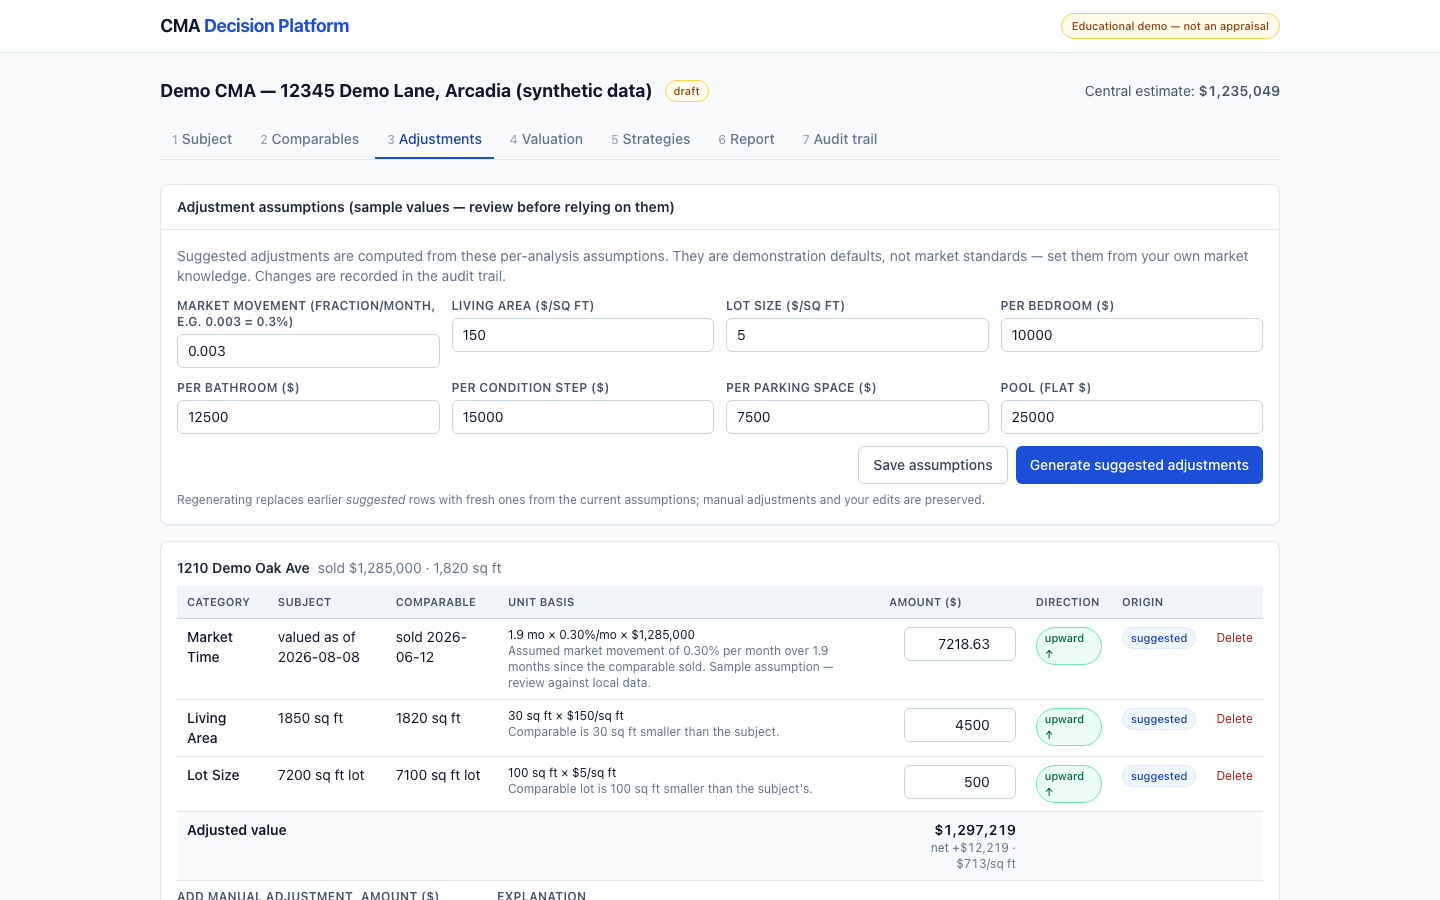
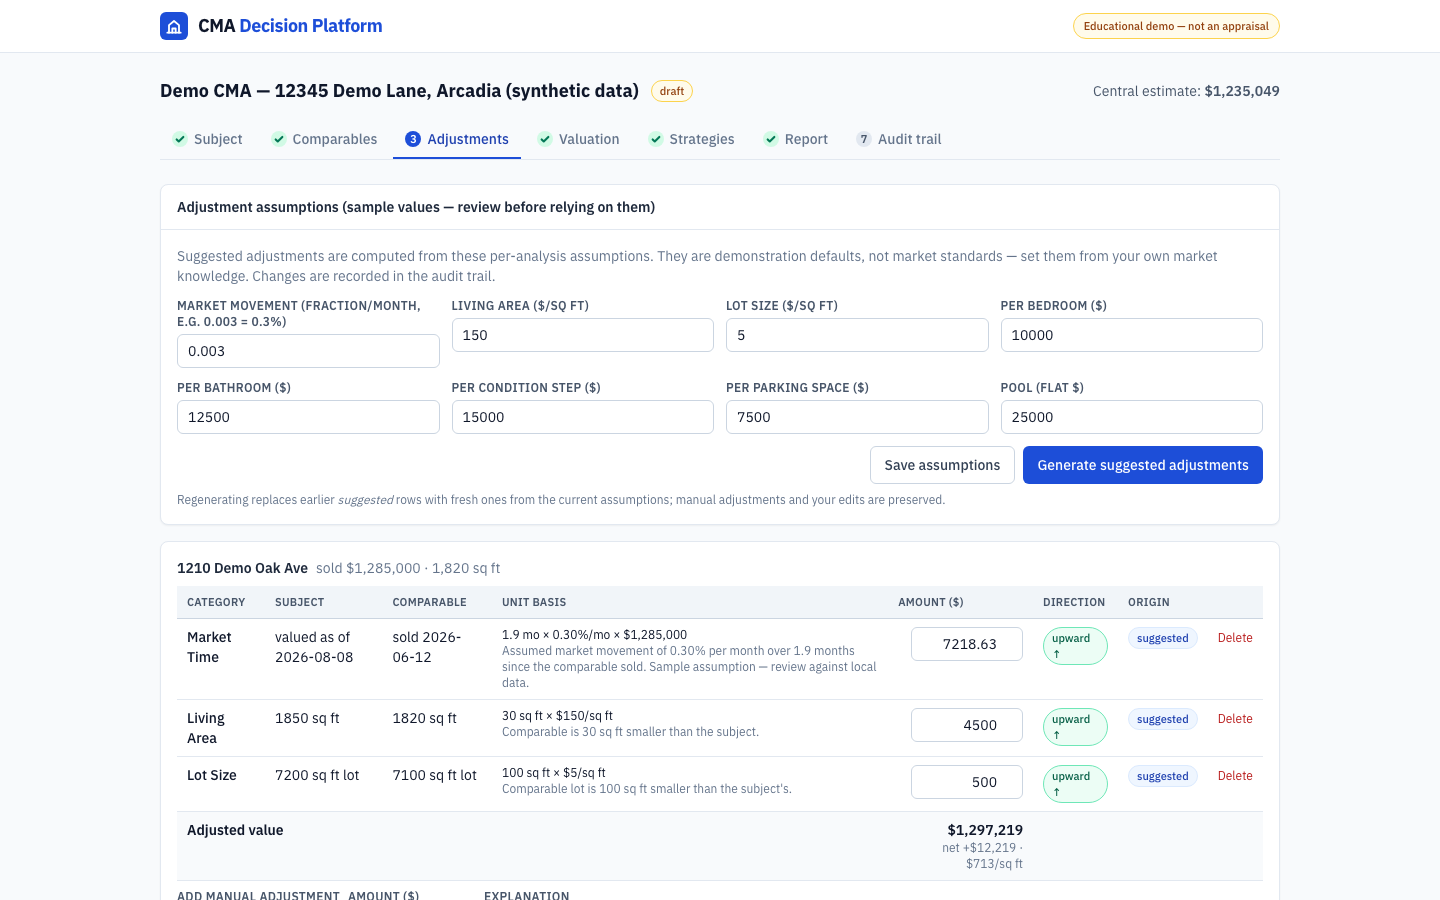
UI polish pass: typography, progress stepper, range panel, a11y fixes
- IBM Plex Sans (self-hosted variable woff2, latin subset) for a
  financial-software feel; offline-safe builds via next/font/local
- Sticky header with SVG brand mark
- Progress-aware stepper: steps show completion from real CMA data
  (backend summary now exposes strategy_count/report_count)
- Dashboard stat row (analyses/drafts/completed/archived)
- Valuation: unified low–central–high range panel with the central
  estimate as the focal point; stacks on mobile (was clipping at 375px)
- Checklist fixes: SVG warning icon replaces glyph, cursor-pointer on
  buttons, prefers-reduced-motion support, small-gray-text contrast
  bumped to slate-500

diff --git a/frontend/src/app/cma/[id]/layout.tsx b/frontend/src/app/cma/[id]/layout.tsx
@@ -20,6 +20,25 @@ const STEPS = [
 
 const STATUS_TONE = { draft: "amber", completed: "green", archived: "slate" } as const;
 
+// A step shows a check once the summary data proves it has produced something.
+// Adjustments completion is ambiguous from the summary, so it stays neutral.
+function isStepDone(slug: string, cma: CMADetail): boolean {
+  switch (slug) {
+    case "subject":
+      return cma.subject != null;
+    case "comparables":
+      return cma.comparable_count > 0;
+    case "valuation":
+      return cma.latest_valuation?.central_estimate != null;
+    case "strategies":
+      return cma.strategy_count > 0;
+    case "report":
+      return cma.report_count > 0;
+    default:
+      return false;
+  }
+}
+
 export default function CmaLayout({ children }: { children: React.ReactNode }) {
   const params = useParams<{ id: string }>();
   const pathname = usePathname();
@@ -67,19 +86,41 @@ export default function CmaLayout({ children }: { children: React.ReactNode }) {
         <ol className="flex min-w-max gap-1 border-b border-slate-200">
           {STEPS.map((step, index) => {
             const active = step.slug === activeStep;
+            const done = isStepDone(step.slug, cma);
             return (
               <li key={step.slug}>
                 <Link
                   href={`/cma/${cmaId}/${step.slug}`}
                   aria-current={active ? "step" : undefined}
-                  className={`inline-block border-b-2 px-3 py-2 text-sm font-medium ${
+                  className={`inline-flex items-center gap-1.5 border-b-2 px-3 py-2 text-sm font-medium transition-colors ${
                     active
                       ? "border-accent-700 text-accent-800"
                       : "border-transparent text-slate-500 hover:border-slate-300 hover:text-slate-800"
                   }`}
                 >
-                  <span className="mr-1 text-xs text-slate-400">{index + 1}</span>
+                  {done && !active ? (
+                    <span
+                      aria-hidden="true"
+                      className="flex h-4 w-4 items-center justify-center rounded-full bg-emerald-100 text-emerald-700"
+                    >
+                      <svg viewBox="0 0 12 12" className="h-2.5 w-2.5" fill="none"
+                        stroke="currentColor" strokeWidth="2.5" strokeLinecap="round"
+                        strokeLinejoin="round">
+                        <path d="M2 6.5L4.5 9 10 3.5" />
+                      </svg>
+                    </span>
+                  ) : (
+                    <span
+                      aria-hidden="true"
+                      className={`flex h-4 w-4 items-center justify-center rounded-full text-xxs font-semibold ${
+                        active ? "bg-accent-700 text-white" : "bg-slate-200 text-slate-600"
+                      }`}
+                    >
+                      {index + 1}
+                    </span>
+                  )}
                   {step.label}
+                  {done && <span className="sr-only">(has data)</span>}
                 </Link>
               </li>
             );

diff --git a/frontend/src/app/cma/[id]/valuation/page.tsx b/frontend/src/app/cma/[id]/valuation/page.tsx
@@ -118,14 +118,38 @@ export default function ValuationPage() {
 
         {valuation && (
           <>
-            <dl className="grid grid-cols-2 gap-3 sm:grid-cols-3 lg:grid-cols-6">
-              <Stat label="Low estimate" value={money(valuation.low_estimate)} />
-              <Stat
-                label="Central estimate"
-                value={money(valuation.central_estimate)}
-                sub={`calc ${valuation.calc_version}`}
-              />
-              <Stat label="High estimate" value={money(valuation.high_estimate)} />
+            <div className="overflow-hidden rounded-lg border-2 border-accent-700">
+              <dl className="grid grid-cols-1 divide-y divide-slate-200 sm:grid-cols-3 sm:divide-x sm:divide-y-0">
+                <div className="bg-white px-4 py-4 text-center">
+                  <dt className="text-xxs font-semibold uppercase tracking-wide text-slate-500">
+                    Low estimate
+                  </dt>
+                  <dd className="mt-1 text-lg font-semibold tabular-nums text-slate-700 sm:text-xl">
+                    {money(valuation.low_estimate)}
+                  </dd>
+                </div>
+                <div className="bg-accent-50 px-4 py-4 text-center">
+                  <dt className="text-xxs font-semibold uppercase tracking-wide text-accent-800">
+                    Central estimate
+                  </dt>
+                  <dd className="mt-1 text-2xl font-bold tabular-nums text-accent-800 sm:text-3xl">
+                    {money(valuation.central_estimate)}
+                  </dd>
+                  <p className="mt-0.5 text-xxs text-slate-500">
+                    {valuation.included_count} comparable(s) · {valuation.calc_version}
+                  </p>
+                </div>
+                <div className="bg-white px-4 py-4 text-center">
+                  <dt className="text-xxs font-semibold uppercase tracking-wide text-slate-500">
+                    High estimate
+                  </dt>
+                  <dd className="mt-1 text-lg font-semibold tabular-nums text-slate-700 sm:text-xl">
+                    {money(valuation.high_estimate)}
+                  </dd>
+                </div>
+              </dl>
+            </div>
+            <dl className="mt-3 grid grid-cols-1 gap-3 sm:grid-cols-3">
               <Stat label="Median adjusted" value={money(valuation.median_adjusted)} />
               <Stat
                 label="Weighted $/sq ft"
@@ -137,9 +161,6 @@ export default function ValuationPage() {
                 sub={valuation.cov !== null ? `CV ${pct(valuation.cov, 1)}` : undefined}
               />
             </dl>
-            <p className="mt-2 text-xs text-slate-500">
-              Based on {valuation.included_count} included comparable(s).
-            </p>
 
             {(valuation.warnings ?? []).map((warning, index) => (
               <WarningBox key={index}>{warning.message}</WarningBox>

diff --git a/frontend/src/app/layout.tsx b/frontend/src/app/layout.tsx
@@ -1,6 +1,15 @@
 import type { Metadata } from "next";
 import Link from "next/link";
+import localFont from "next/font/local";
 import "./globals.css";
+
+// Self-hosted variable font (latin subset) so clean-clone builds stay offline.
+const plexSans = localFont({
+  src: "../fonts/ibm-plex-sans-latin-var.woff2",
+  display: "swap",
+  weight: "100 700",
+  variable: "--font-plex-sans",
+});
 
 export const metadata: Metadata = {
   title: "CMA Decision Platform",
@@ -10,17 +19,32 @@ export const metadata: Metadata = {
 
 export default function RootLayout({ children }: { children: React.ReactNode }) {
   return (
-    <html lang="en">
-      <body className="flex min-h-screen flex-col">
+    <html lang="en" className={plexSans.variable}>
+      <body className="flex min-h-screen flex-col font-sans">
         <a
           href="#main"
           className="sr-only focus:not-sr-only focus:absolute focus:left-2 focus:top-2 focus:z-50 focus:rounded focus:bg-white focus:px-3 focus:py-2 focus:shadow"
         >
           Skip to main content
         </a>
-        <header className="border-b border-slate-200 bg-white">
+        <header className="sticky top-0 z-40 border-b border-slate-200 bg-white/95 backdrop-blur">
           <div className="mx-auto flex max-w-6xl items-center justify-between gap-4 px-4 py-3">
-            <Link href="/" className="flex items-baseline gap-2 no-underline">
+            <Link href="/" className="group flex items-center gap-2.5 no-underline">
+              <svg
+                aria-hidden="true"
+                viewBox="0 0 24 24"
+                className="h-7 w-7 rounded-md bg-accent-700 p-1 text-white transition-colors group-hover:bg-accent-800"
+                fill="none"
+                stroke="currentColor"
+                strokeWidth="2.2"
+                strokeLinecap="round"
+                strokeLinejoin="round"
+              >
+                {/* house outline over a rising bar baseline */}
+                <path d="M4 20h16" />
+                <path d="M6 20v-9l6-5 6 5v9" />
+                <path d="M10 20v-5h4v5" />
+              </svg>
               <span className="text-lg font-bold tracking-tight text-slate-900">
                 CMA <span className="text-accent-700">Decision Platform</span>
               </span>

diff --git a/frontend/src/app/page.tsx b/frontend/src/app/page.tsx
@@ -40,6 +40,11 @@ export default function DashboardPage() {
 
   const visible = (cmas ?? []).filter((c) => showArchived || c.status !== "archived");
   const archivedCount = (cmas ?? []).filter((c) => c.status === "archived").length;
+  const counts = {
+    total: cmas?.length ?? 0,
+    draft: (cmas ?? []).filter((c) => c.status === "draft").length,
+    completed: (cmas ?? []).filter((c) => c.status === "completed").length,
+  };
 
   return (
     <div>
@@ -54,6 +59,29 @@ export default function DashboardPage() {
           {creating ? "Creating…" : "+ Create new CMA"}
         </button>
       </div>
+
+      {cmas && cmas.length > 0 && (
+        <dl className="mb-4 grid grid-cols-2 gap-3 sm:grid-cols-4">
+          {[
+            { label: "Analyses", value: counts.total },
+            { label: "Drafts", value: counts.draft },
+            { label: "Completed", value: counts.completed },
+            { label: "Archived", value: archivedCount },
+          ].map((stat) => (
+            <div
+              key={stat.label}
+              className="rounded-lg border border-slate-200 bg-white px-4 py-3 shadow-sm"
+            >
+              <dt className="text-xxs font-semibold uppercase tracking-wide text-slate-500">
+                {stat.label}
+              </dt>
+              <dd className="mt-0.5 text-xl font-bold tabular-nums text-slate-900">
+                {stat.value}
+              </dd>
+            </div>
+          ))}
+        </dl>
+      )}
 
       {error && <ErrorBox message={error} onRetry={load} />}
       {!cmas && !error && <Spinner label="Loading analyses…" />}

diff --git a/frontend/src/components/ui.tsx b/frontend/src/components/ui.tsx
@@ -35,9 +35,22 @@ export function ErrorBox({ message, onRetry }: { message: string; onRetry?: () =
 
 export function WarningBox({ children }: { children: React.ReactNode }) {
   return (
-    <div className="my-2 rounded-md border border-amber-300 bg-amber-50 px-3 py-2 text-sm text-amber-900">
-      <span aria-hidden="true">⚠ </span>
-      {children}
+    <div className="my-2 flex items-start gap-2 rounded-md border border-amber-300 bg-amber-50 px-3 py-2 text-sm text-amber-900">
+      <svg
+        aria-hidden="true"
+        viewBox="0 0 24 24"
+        className="mt-0.5 h-4 w-4 shrink-0 text-amber-600"
+        fill="none"
+        stroke="currentColor"
+        strokeWidth="2"
+        strokeLinecap="round"
+        strokeLinejoin="round"
+      >
+        <path d="M10.29 3.86L1.82 18a2 2 0 001.71 3h16.94a2 2 0 001.71-3L13.71 3.86a2 2 0 00-3.42 0z" />
+        <line x1="12" y1="9" x2="12" y2="13" />
+        <line x1="12" y1="17" x2="12.01" y2="17" />
+      </svg>
+      <span>{children}</span>
     </div>
   );
 }

diff --git a/frontend/src/app/globals.css b/frontend/src/app/globals.css
@@ -13,12 +13,22 @@
   :focus-visible {
     @apply outline-none ring-2 ring-accent-600 ring-offset-2 ring-offset-slate-50;
   }
+  @media (prefers-reduced-motion: reduce) {
+    *,
+    *::before,
+    *::after {
+      animation-duration: 0.01ms !important;
+      animation-iteration-count: 1 !important;
+      transition-duration: 0.01ms !important;
+    }
+  }
 }
 
 @layer components {
   .btn {
-    @apply inline-flex items-center justify-center gap-1.5 rounded-md px-3.5 py-2 text-sm
-      font-medium transition-colors disabled:cursor-not-allowed disabled:opacity-50;
+    @apply inline-flex cursor-pointer items-center justify-center gap-1.5 rounded-md px-3.5
+      py-2 text-sm font-medium transition-colors disabled:cursor-not-allowed
+      disabled:opacity-50;
   }
   .btn-primary {
     @apply btn bg-accent-700 text-white hover:bg-accent-800;

diff --git a/frontend/src/components/StrategyCompare.tsx b/frontend/src/components/StrategyCompare.tsx
@@ -105,7 +105,7 @@ export function StrategyCompare({
             <p className="mt-3 text-xs text-slate-600">{strategy.derived.description}</p>
           )}
           <p className="mt-2 text-xs text-slate-500">{strategy.derived.marketing_notes}</p>
-          <p className="mt-2 border-t border-slate-100 pt-2 text-xxs text-slate-400">
+          <p className="mt-2 border-t border-slate-100 pt-2 text-xxs text-slate-500">
             Scenario estimate vs. central {money(centralEstimate)}. {strategy.derived.assumptions}
           </p>
         </article>

diff --git a/frontend/e2e/workflow.spec.ts b/frontend/e2e/workflow.spec.ts
@@ -66,7 +66,7 @@ test("full CMA workflow with the bundled synthetic sample", async ({ page }) => 
   await page.getByRole("link", { name: /next: valuation/i }).click();
   await page.getByRole("button", { name: /calculate valuation/i }).click();
   await expect(page.getByText(/central estimate/i).first()).toBeVisible();
-  await expect(page.getByText(/based on 19 included/i)).toBeVisible({
+  await expect(page.getByText(/19 comparable\(s\)/i)).toBeVisible({
     timeout: 20_000,
   });
 

diff --git a/frontend/src/app/cma/[id]/audit/page.tsx b/frontend/src/app/cma/[id]/audit/page.tsx
@@ -63,7 +63,7 @@ export default function AuditPage() {
                   {titleCase(event.event_type)}
                 </Badge>
                 <p className="min-w-[12rem] flex-1 text-sm text-slate-800">{event.summary}</p>
-                <span className="text-xxs text-slate-400">
+                <span className="text-xxs text-slate-500">
                   {event.actor} · {event.calc_version}
                 </span>
                 {event.details && (

diff --git a/frontend/tailwind.config.ts b/frontend/tailwind.config.ts
@@ -4,6 +4,16 @@ const config: Config = {
   content: ["./src/**/*.{ts,tsx}"],
   theme: {
     extend: {
+      fontFamily: {
+        sans: [
+          "var(--font-plex-sans)",
+          "IBM Plex Sans",
+          "-apple-system",
+          "BlinkMacSystemFont",
+          "Segoe UI",
+          "sans-serif",
+        ],
+      },
       colors: {
         // Single restrained accent on a neutral slate base.
         accent: {

diff --git a/frontend/src/lib/types.ts b/frontend/src/lib/types.ts
@@ -64,6 +64,8 @@ export interface CMASummary {
   subject_address: string | null;
   comparable_count: number;
   included_count: number;
+  strategy_count: number;
+  report_count: number;
   latest_valuation: Valuation | null;
 }
 

diff --git a/backend/app/routers/cmas.py b/backend/app/routers/cmas.py
@@ -45,6 +45,8 @@ def _summary(cma: CMAAnalysis) -> CMASummary:
         included_count=sum(
             1 for c in cma.comparables if c.selection is not None and c.selection.included
         ),
+        strategy_count=len(cma.strategies),
+        report_count=len(cma.reports),
         latest_valuation=ValuationOut.model_validate(valuation) if valuation else None,
     )
 
